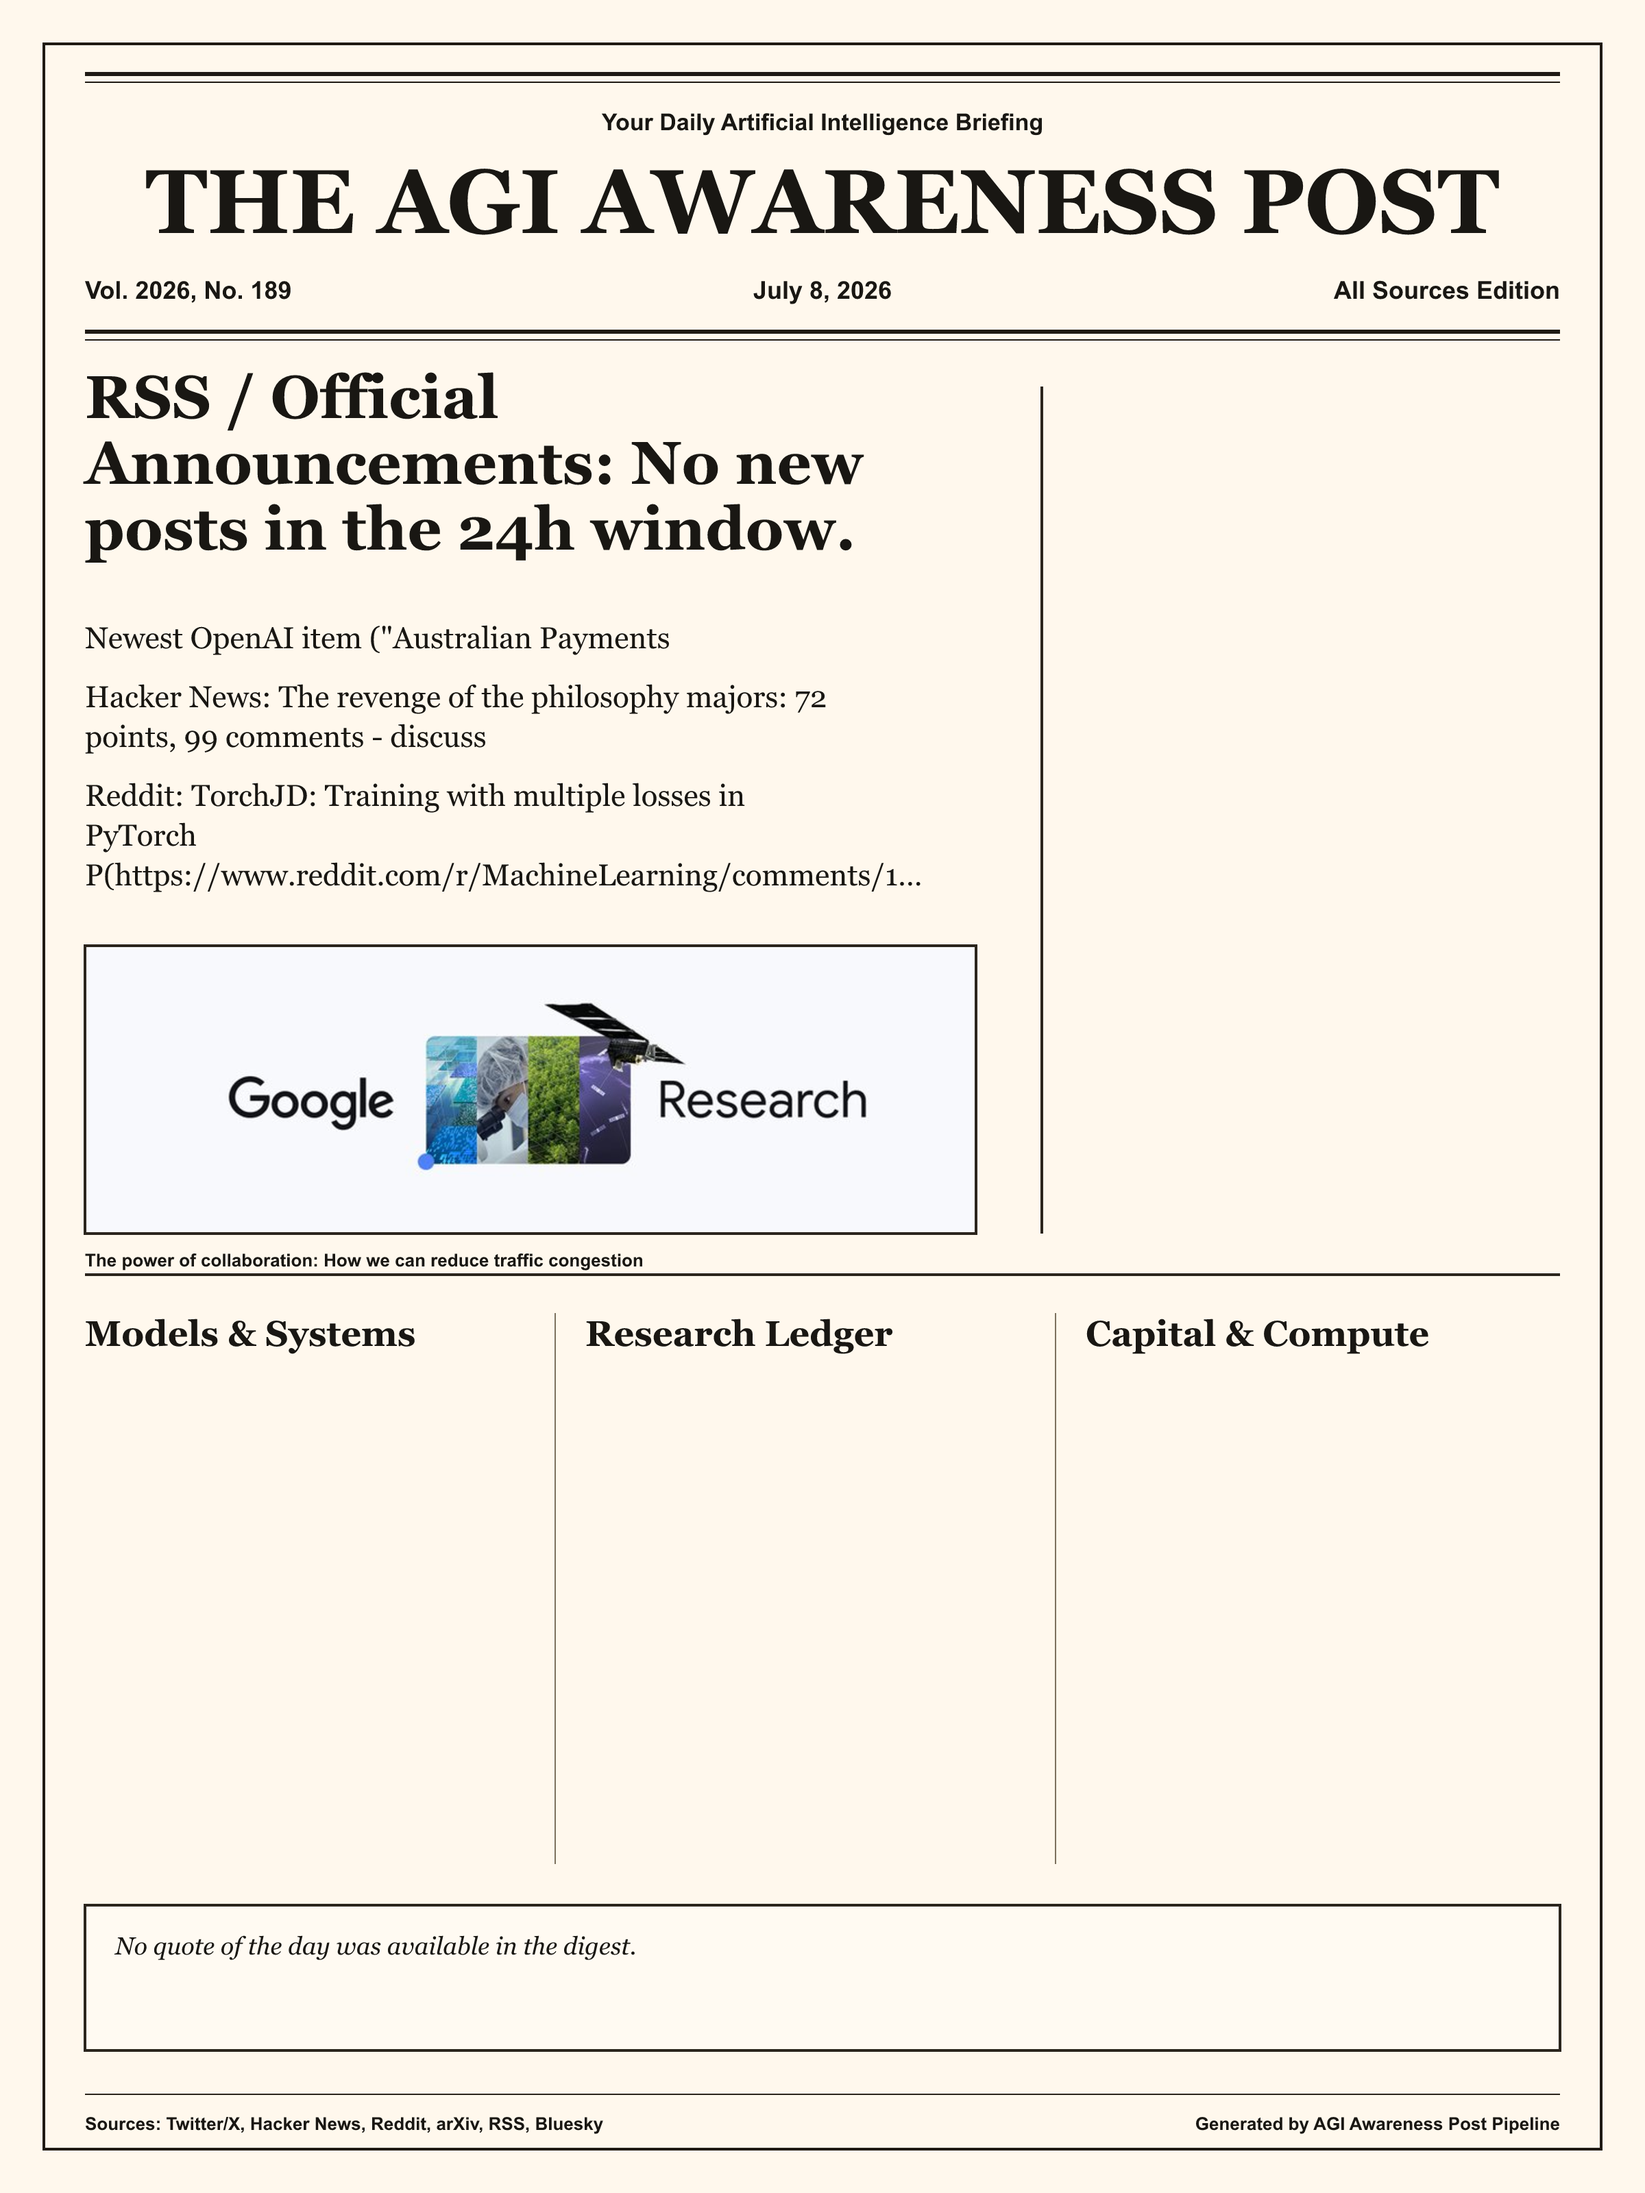
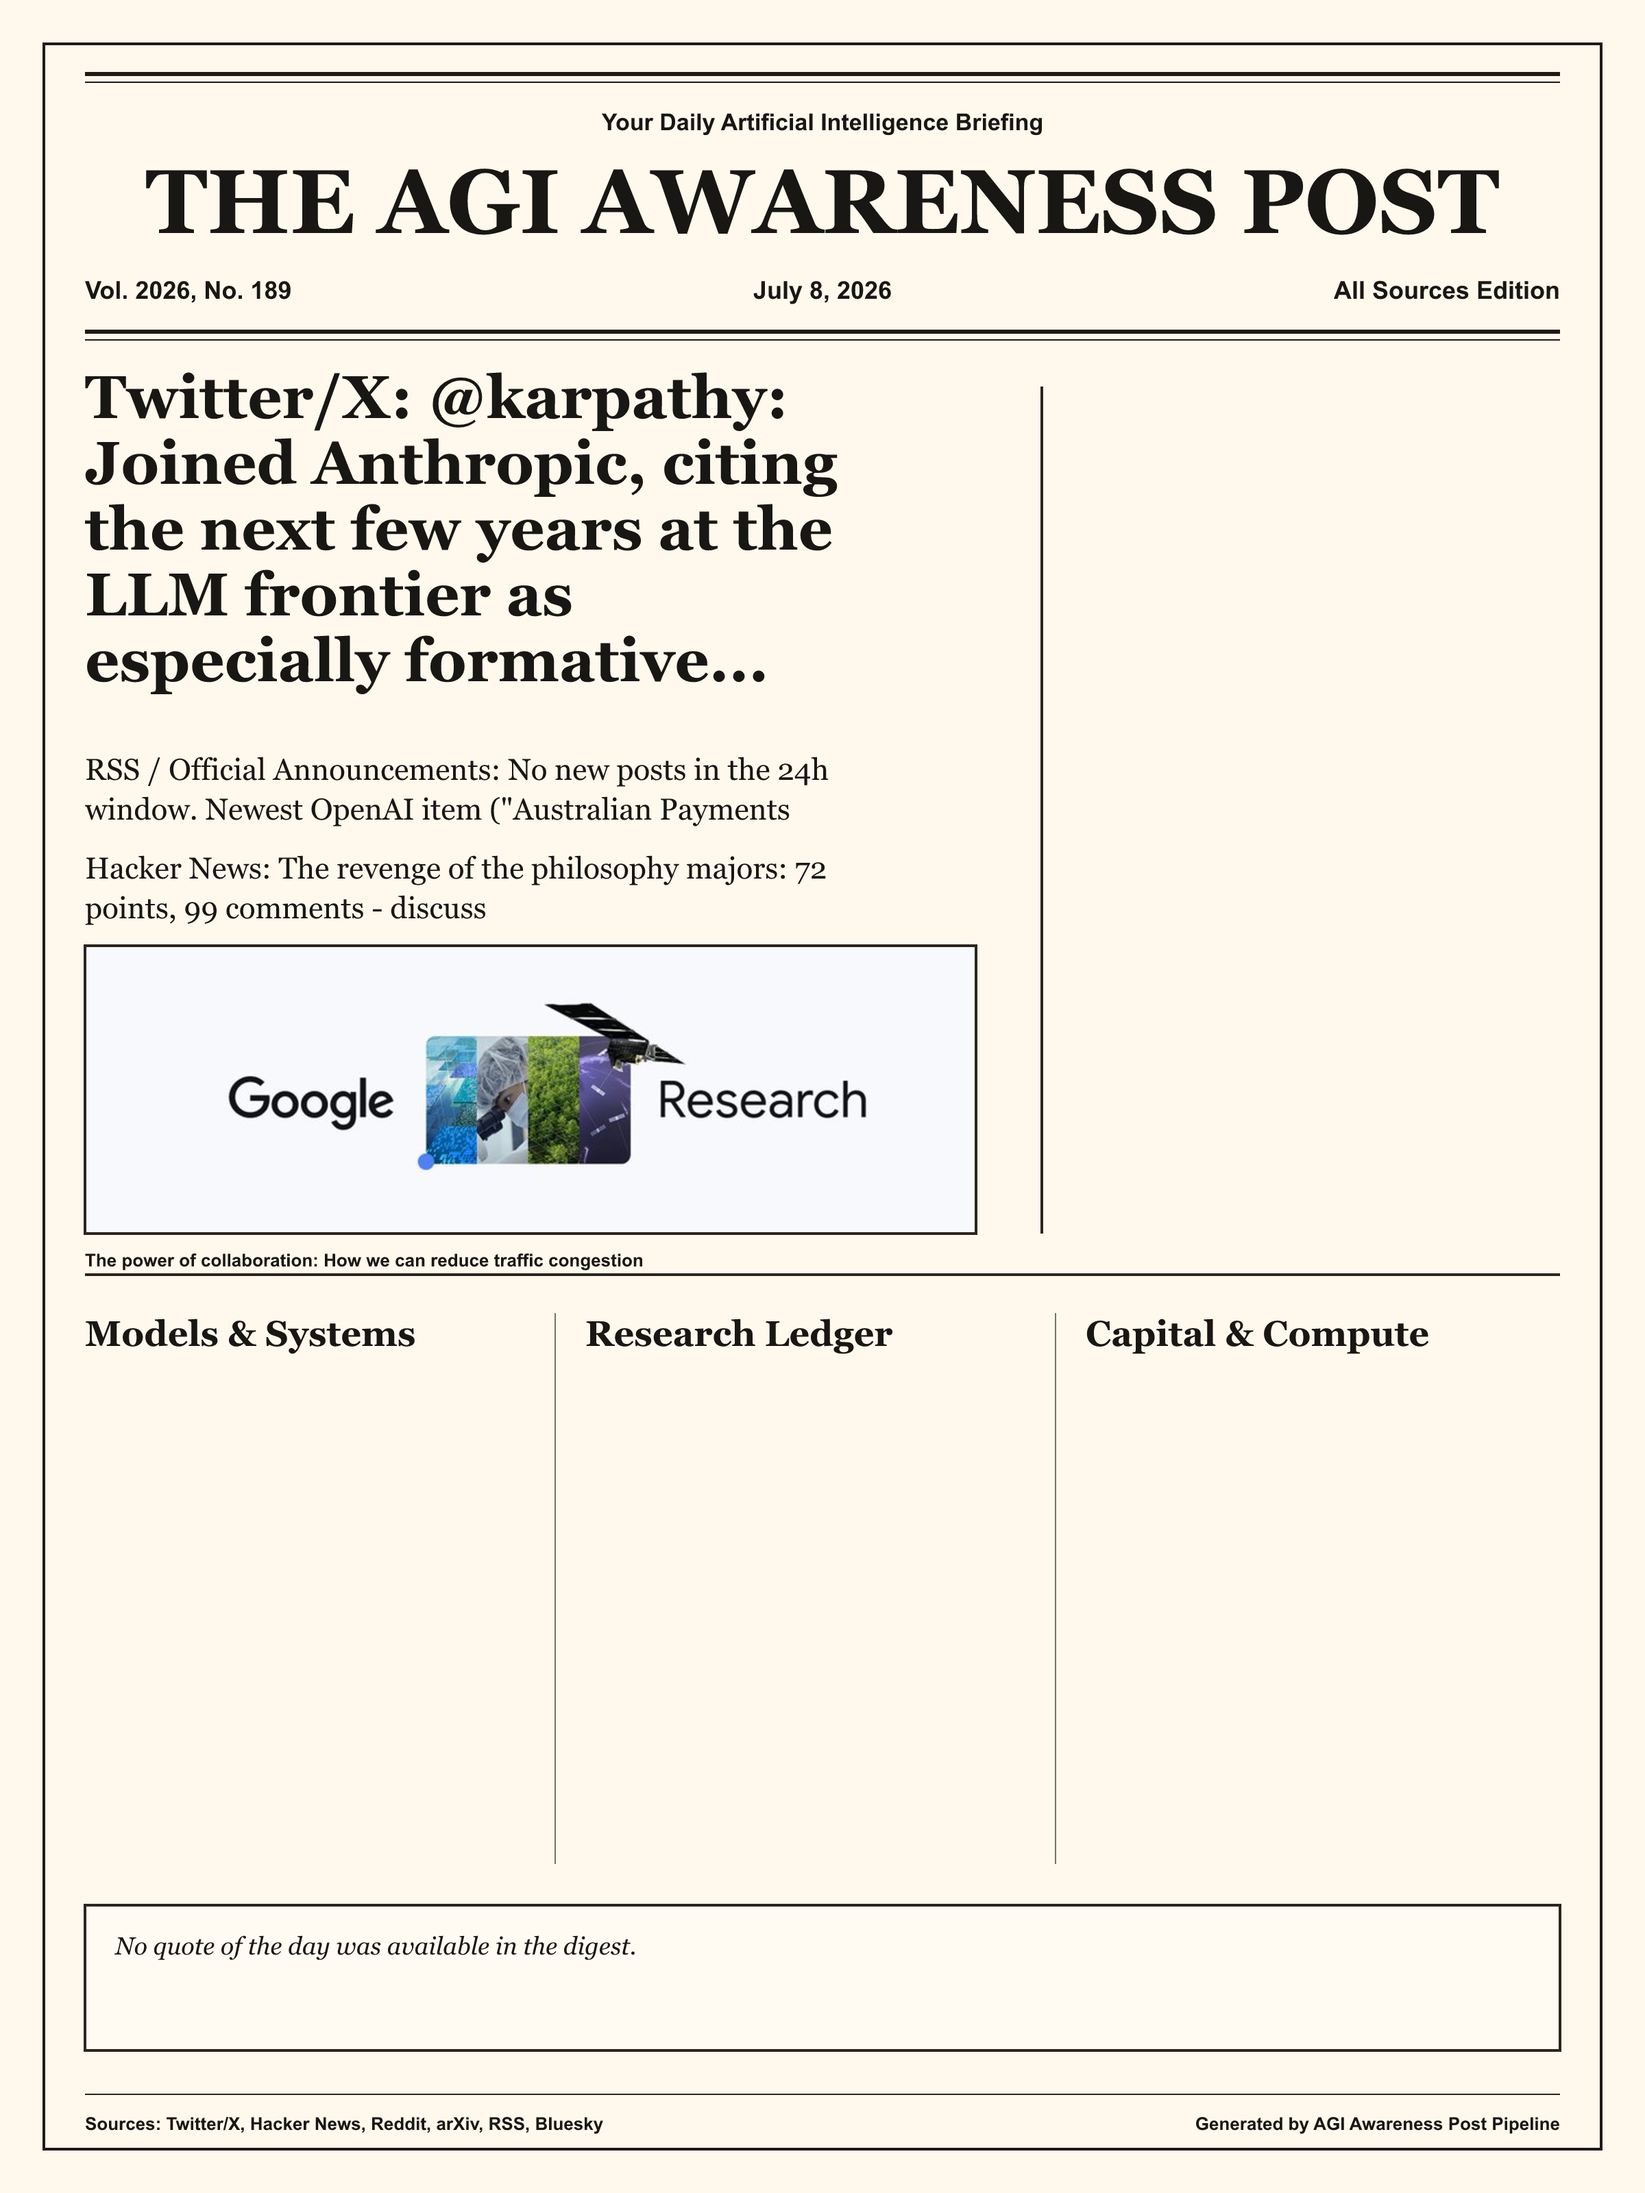
Front page 2026-07-08

Changed region(s): [[0.0312, 0.1562, 0.5312, 0.4375]]

diff --git a/research/front-page/2026-07-08-front-page.html b/research/front-page/2026-07-08-front-page.html
@@ -1,11 +1,10 @@
 <article class="ara-paper" data-paper-date="July 8, 2026">
 <header class="ara-paper-masthead"><div class="ara-paper-kicker">Your Daily Artificial Intelligence Briefing</div><h2 class="ara-paper-name">THE AGI AWARENESS POST</h2><div class="ara-paper-meta"><span>Vol. 2026, No. 189</span><span>July 8, 2026</span><span>All Sources Edition</span></div><p class="ara-paper-deck">An interactive newspaper edition generated from the daily AI digest.</p></header>
 <nav class="ara-paper-index" aria-label="In this edition"><div class="ara-paper-index-title">In this edition</div><div class="ara-paper-index-links"><a class="ara-paper-index-link" href="#lead-top-story">Lead</a><a class="ara-paper-index-link" href="#briefs-breaking-policy">Breaking</a><a class="ara-paper-index-link" href="#meter-signal-mix">Signals</a><a class="ara-paper-index-link" href="#deck-departments">Departments</a></div></nav>
-<section class="ara-paper-lead" id="lead-top-story"><div class="ara-paper-label">Top Story</div><button class="ara-paper-toggle" type="button" aria-expanded="true" aria-controls="lead-top-story-body"><span>RSS / Official Announcements: No new posts in the 24h window.</span><span class="ara-paper-toggle-icon" aria-hidden="true">⌄</span></button><div class="ara-paper-collapsible" id="lead-top-story-body"><p>Newest OpenAI item ("Australian Payments</p>
+<section class="ara-paper-lead" id="lead-top-story"><div class="ara-paper-label">Top Story</div><button class="ara-paper-toggle" type="button" aria-expanded="true" aria-controls="lead-top-story-body"><span>Twitter/X: @karpathy: Joined Anthropic, citing the next few years at the LLM frontier as especially formative...</span><span class="ara-paper-toggle-icon" aria-hidden="true">⌄</span></button><div class="ara-paper-collapsible" id="lead-top-story-body"><p>RSS / Official Announcements: No new posts in the 24h window. Newest OpenAI item ("Australian Payments</p>
 <p>Hacker News: The revenge of the philosophy majors: 72 points, 99 comments - discuss</p>
-<p>Reddit: TorchJD: Training with multiple losses in PyTorch P(https://www.reddit.com/r/MachineLearning/comments/1upzxk2/torchjdtrainingwithmultiplelossesinpytorchp) — link</p>
-<p>Expert Blogs: sqlite-utils 4.0, now with database schema migrations</p></div></section>
-<figure class="ara-figure ara-figure--wide"><img src="https://cdn.bsky.app/img/feed_thumbnail/plain/did:plc:flxq4uyjfotciovpw3x3fxnu/bafkreifzqtrofezjozfkpr7mjxdcnu7f3inraq43u3ylkgxjl6iyfjl4sa" alt="link" loading="lazy" decoding="async" referrerpolicy="no-referrer"><figcaption class="ara-caption"><span class="ara-caption-text">Bluesky: @emollick.bsky.social: "Even before the agentic revolution, prompting tricks stopped being very valuable, as our research has shown. The format isn't key, the best approach to AI right now is to clearly…" - link (❤ 106, 🔄 16)</span><span class="ara-credit">Source: <a href="https://bsky.app/profile/emollick.bsky.social/post/3mpzi5labdc2x">Source</a></span></figcaption></figure>
+<p>Reddit: TorchJD: Training with multiple losses in PyTorch P(https://www.reddit.com/r/MachineLearning/comments/1upzxk2/torchjdtrainingwithmultiplelossesinpytorchp) — link</p></div></section>
+<figure class="ara-figure ara-figure--wide"><img src="https://storage.googleapis.com/gweb-research2023-media/images/HO_previewImage1.width-800.format-jpeg.jpg" alt="The power of collaboration: How we can reduce traffic congestion" loading="lazy" decoding="async" referrerpolicy="no-referrer"><figcaption class="ara-caption"><span class="ara-caption-text">The power of collaboration: How we can reduce traffic congestion</span><span class="ara-credit">Source: <a href="https://research.google/blog/the-power-of-collaboration-how-we-can-reduce-traffic-congestion/">Source</a></span></figcaption></figure>
 <section class="ara-paper-briefs" id="briefs-breaking-policy" data-columns="2"><h3 class="ara-paper-section-title">Breaking &amp; Policy</h3><div class="ara-paper-brief-grid"><details class="ara-paper-brief"><summary><span class="ara-paper-brief-rank">01</span><span class="ara-paper-brief-tag">Policy</span><span class="ara-paper-brief-headline">No breaking or policy items were highlighted in this edition.</span></summary></details></div></section>
 <section class="ara-paper-meter" id="meter-signal-mix"><h3 class="ara-paper-section-title">Signal Mix</h3><div class="ara-paper-meter-row ara-paper-meter-row--hot"><div class="ara-paper-meter-label"><span>Breaking news</span><strong>0 items</strong></div><div class="ara-paper-meter-track"><span class="ara-paper-meter-fill" data-pct="0"></span></div></div><div class="ara-paper-meter-row ara-paper-meter-row--watch"><div class="ara-paper-meter-label"><span>Model releases</span><strong>0 items</strong></div><div class="ara-paper-meter-track"><span class="ara-paper-meter-fill" data-pct="0"></span></div></div><div class="ara-paper-meter-row ara-paper-meter-row--research"><div class="ara-paper-meter-label"><span>Research highlights</span><strong>0 items</strong></div><div class="ara-paper-meter-track"><span class="ara-paper-meter-fill" data-pct="0"></span></div></div><div class="ara-paper-meter-row ara-paper-meter-row--market"><div class="ara-paper-meter-label"><span>Funding and compute</span><strong>0 items</strong></div><div class="ara-paper-meter-track"><span class="ara-paper-meter-fill" data-pct="0"></span></div></div></section>
 <section class="ara-paper-story-deck" id="deck-departments"><h3 class="ara-paper-section-title">Departments</h3><div class="ara-paper-story-list"><details class="ara-paper-story ara-paper-story--hot"><summary><span>Models &amp; Systems</span></summary><div class="ara-paper-story-meta">0 digest items</div><p>No items reported in this section.</p></details><details class="ara-paper-story ara-paper-story--research"><summary><span>Research Ledger</span></summary><div class="ara-paper-story-meta">0 digest items</div><p>No items reported in this section.</p></details><details class="ara-paper-story ara-paper-story--market"><summary><span>Capital &amp; Compute</span></summary><div class="ara-paper-story-meta">0 digest items</div><p>No items reported in this section.</p></details></div></section>

diff --git a/research/front-page/2026-07-08-front-page.ara.md b/research/front-page/2026-07-08-front-page.ara.md
@@ -19,17 +19,15 @@ deck: "An interactive newspaper edition generated from the daily AI digest."
   target: "#deck-departments"
 :::
 
-:::lead(id="lead-top-story", label="Top Story", title="RSS / Official Announcements: No new posts in the 24h window.")
-Newest OpenAI item ("Australian Payments
+:::lead(id="lead-top-story", label="Top Story", title="Twitter/X: @karpathy: Joined Anthropic, citing the next few years at the LLM frontier as especially formative...")
+RSS / Official Announcements: No new posts in the 24h window. Newest OpenAI item ("Australian Payments
 
 Hacker News: The revenge of the philosophy majors: 72 points, 99 comments - discuss
 
 Reddit: TorchJD: Training with multiple losses in PyTorch P(https://www.reddit.com/r/MachineLearning/comments/1upzxk2/torchjdtrainingwithmultiplelossesinpytorchp) — link
-
-Expert Blogs: sqlite-utils 4.0, now with database schema migrations
 :::
 
-:::figure(src="https://cdn.bsky.app/img/feed_thumbnail/plain/did:plc:flxq4uyjfotciovpw3x3fxnu/bafkreifzqtrofezjozfkpr7mjxdcnu7f3inraq43u3ylkgxjl6iyfjl4sa", alt="link", caption="Bluesky: @emollick.bsky.social: \"Even before the agentic revolution, prompting tricks stopped being very valuable, as our research has shown. The format isn't key, the best approach to AI right now is to clearly…\" - link (❤ 106, 🔄 16)", source-url="https://bsky.app/profile/emollick.bsky.social/post/3mpzi5labdc2x", variant=wide)
+:::figure(src="https://storage.googleapis.com/gweb-research2023-media/images/HO_previewImage1.width-800.format-jpeg.jpg", alt="The power of collaboration: How we can reduce traffic congestion", caption="The power of collaboration: How we can reduce traffic congestion", source-url="https://research.google/blog/the-power-of-collaboration-how-we-can-reduce-traffic-congestion/", variant=wide)
 :::
 
 :::briefs(id="briefs-breaking-policy", title="Breaking & Policy", columns=2)
